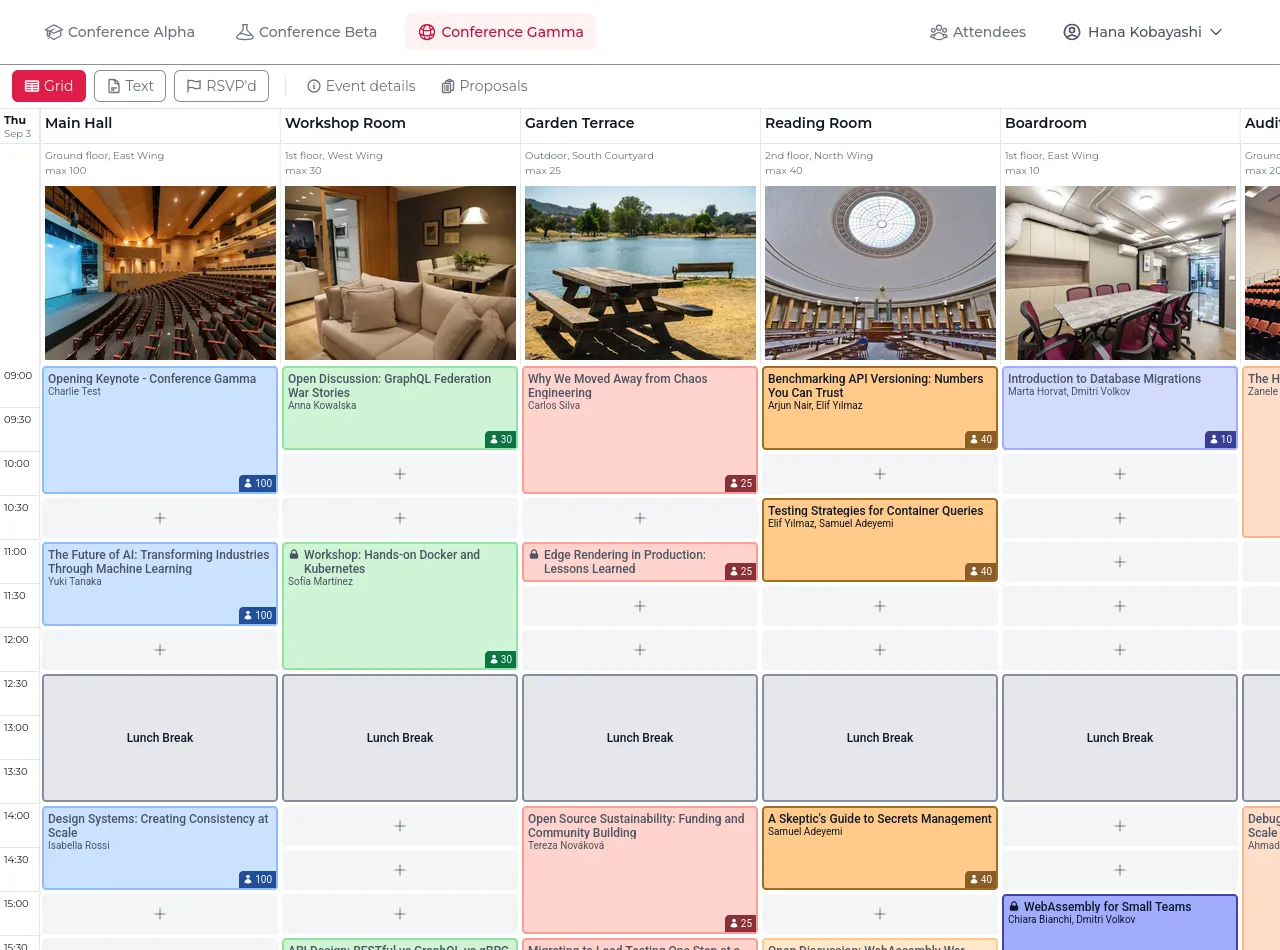
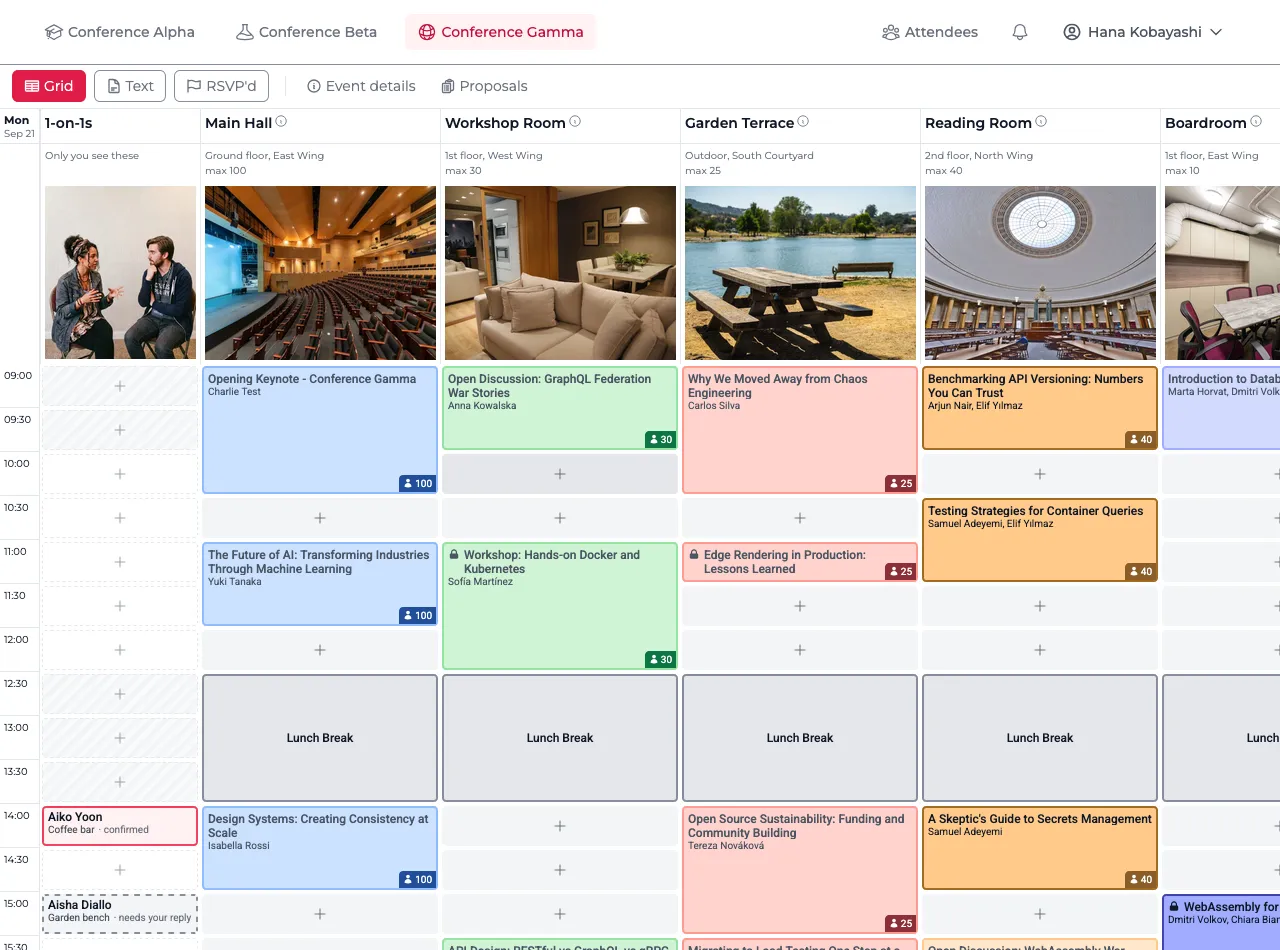
docs: screenshots of the 1-on-1s
Six shots — availability under Settings, asking from a profile, answering,
the grid's own column, booking from an empty slot in it, and the
organizer's settings — in the attendee and admin guides.

The site hero is retaken with the 1-on-1 column in it, so the feature is on
the landing page, the README and the docs index without a shot of its own;
the gallery's 1-on-1 step is the request form, which reads at a glance where
a column on the left does not.

The large seed profile now gives the screenshot guest her own availability
and a 1-on-1 in each state, so the shots can be retaken without arranging
anything by hand.

fixes #998

diff --git a/www/screenshots.html b/www/screenshots.html
@@ -320,19 +320,20 @@
 
         <figure
           data-full="screenshots/schedule-grid.webp"
-          data-caption="Build the schedule — Hosts place proposals on a time-and-room grid, with room photos, capacity, and location shown inline."
+          data-caption="Build the schedule — Hosts place proposals on a time-and-room grid, with room photos, capacity, and location shown inline. The first column is the viewer's own 1-on-1s."
         >
           <figcaption>
             <span class="step-title">6. Build the schedule</span>
             <span class="step-desc"
               >Hosts place proposals on a time-and-room grid, with room photos,
-              capacity, and location shown inline.</span
+              capacity, and location shown inline. The first column is the
+              viewer's own 1-on-1s.</span
             >
           </figcaption>
           <img
             src="screenshots/schedule-grid.webp"
             loading="lazy"
-            alt="Simple scheduling grid with rooms as columns, time slots as rows, and room photos shown for each column"
+            alt="Scheduling grid with rooms as columns, time slots as rows and room photos for each column, and a first column holding the viewer's own 1-on-1s"
           />
         </figure>
 
@@ -373,6 +374,24 @@
           />
         </figure>
 
+        <figure
+          data-full="screenshots/meeting-request.webp"
+          data-caption="Ask someone for a 1-on-1 — Pick an hour they marked free, say where to meet, and add a line of context. Clashes are a warning, never a wall."
+        >
+          <figcaption>
+            <span class="step-title">9. Ask someone for a 1-on-1</span>
+            <span class="step-desc"
+              >Pick an hour they marked free, say where to meet, and add a line
+              of context. Clashes are a warning, never a wall.</span
+            >
+          </figcaption>
+          <img
+            src="screenshots/meeting-request.webp"
+            loading="lazy"
+            alt="Request form for a 1-on-1, with an attendee's hours marked Available, Busy or Unavailable, a choice of meeting points, and a line of context"
+          />
+        </figure>
+
         <h3 class="section-heading">Attendees &amp; profiles</h3>
 
         <figure
@@ -380,7 +399,7 @@
           data-caption="Attendee directory — Search everyone at the event and see who's hosting a session at a glance."
         >
           <figcaption>
-            <span class="step-title">9. Attendee directory</span>
+            <span class="step-title">10. Attendee directory</span>
             <span class="step-desc"
               >Search everyone at the event and see who's hosting a session at a
               glance.</span
@@ -398,7 +417,7 @@
           data-caption="Participant profiles — Everyone gets a profile with their bio, proposals, and the sessions they're hosting."
         >
           <figcaption>
-            <span class="step-title">10. Participant profiles</span>
+            <span class="step-title">11. Participant profiles</span>
             <span class="step-desc"
               >Everyone gets a profile with their bio, proposals, and the
               sessions they're hosting.</span
@@ -416,7 +435,7 @@
           data-caption="Edit your profile — Set your name, pronouns, avatar, and a Markdown bio."
         >
           <figcaption>
-            <span class="step-title">11. Edit your profile</span>
+            <span class="step-title">12. Edit your profile</span>
             <span class="step-desc"
               >Set your name, pronouns, avatar, and a Markdown bio.</span
             >
@@ -436,7 +455,7 @@
           data-caption="Works great on mobile — The full schedule is usable on a phone, so attendees can check it on the go."
         >
           <figcaption>
-            <span class="step-title">12. Works great on mobile</span>
+            <span class="step-title">13. Works great on mobile</span>
             <span class="step-desc"
               >The full schedule is usable on a phone, so attendees can check it
               on the go.</span
@@ -455,7 +474,7 @@
           data-caption="Closed-session notices — Attendees are warned about late-arrival rules before they RSVP."
         >
           <figcaption>
-            <span class="step-title">13. Closed-session notices</span>
+            <span class="step-title">14. Closed-session notices</span>
             <span class="step-desc"
               >Attendees are warned about late-arrival rules before they RSVP
               (here the mobile view).</span
@@ -475,7 +494,7 @@
           data-caption="Admin: manage all your events — See every event's dates and jump straight into managing one."
         >
           <figcaption>
-            <span class="step-title">14. Admin: manage all your events</span>
+            <span class="step-title">15. Admin: manage all your events</span>
             <span class="step-desc"
               >See every event's dates and jump straight into managing
               one.</span
@@ -493,7 +512,7 @@
           data-caption="Admin: configure each event — Set the name, description, dates, timezone, and scheduling rules per event."
         >
           <figcaption>
-            <span class="step-title">15. Admin: configure each event</span>
+            <span class="step-title">16. Admin: configure each event</span>
             <span class="step-desc"
               >Set the name, description, dates, timezone, and scheduling rules
               per event.</span
@@ -512,7 +531,7 @@
         >
           <figcaption>
             <span class="step-title"
-              >16. Notifications &amp; account security</span
+              >17. Notifications &amp; account security</span
             >
             <span class="step-desc"
               >Choose which changes you get emailed about, and protect your name
@@ -532,7 +551,7 @@
           data-caption="Kiosk mode for the venue — An unattended schedule display auto-scrolls to the current time, marked with a red line, and stays fresh without anyone touching it."
         >
           <figcaption>
-            <span class="step-title">17. Kiosk mode for the venue</span>
+            <span class="step-title">18. Kiosk mode for the venue</span>
             <span class="step-desc"
               >An unattended schedule display auto-scrolls to the current time,
               marked with a red line, and stays fresh without anyone touching

diff --git a/scripts/seed/seed-database.ts b/scripts/seed/seed-database.ts
@@ -38,6 +38,10 @@ const TZ = "Europe/Berlin";
 // derives 1-on-1 slots from it, and so does the availability seeding below.
 const SLOT_INCREMENT_MINUTES = 30;
 
+// The attendee the documentation screenshots are taken as, so the large
+// profile gives her the 1-on-1s to photograph (docs/screenshots/README.md).
+const SCREENSHOT_GUEST = "Hana Kobayashi";
+
 // Returns a UTC Date representing the given clock time on a specific day in Berlin.
 // dayOffset is added to baseDate's Berlin calendar date before setting the time.
 function berlinTime(
@@ -477,6 +481,30 @@ async function seedTestData(profile: SeedProfile) {
         }))
       );
   });
+  // A wider day than the shared afternoon, with gaps in it: the screenshot
+  // guest's own availability is one of the shots. Large profile only, so the
+  // E2E suite keeps every seeded guest unbookable.
+  if (profile === "large") {
+    const screenshotGuest = guestRows.find((g) => g.name === SCREENSHOT_GUEST)!;
+    for (const day of dayRows) {
+      const start = new Date(day.start);
+      for (const slot of meetingSlotsForDay(
+        { start, end: new Date(day.end) },
+        SLOT_INCREMENT_MINUTES
+      )) {
+        const hoursIn =
+          (slot.start.getTime() - start.getTime()) / (60 * 60 * 1000);
+        const overLunch = hoursIn >= 3.5 && hoursIn < 5;
+        if (hoursIn < 1 || hoursIn >= 8.5 || overLunch) continue;
+        availabilityRows.push({
+          eventId: day.eventId,
+          guestId: screenshotGuest.id,
+          slotStart: slot.start.toISOString(),
+        });
+      }
+    }
+  }
+
   insertChunked(availabilityRows, (chunk) =>
     db.insert(schema.meetingAvailability).values(chunk)
   );
@@ -976,6 +1004,67 @@ async function seedTestData(profile: SeedProfile) {
   }
   insertChunked(rsvpRows, (chunk) => db.insert(schema.rsvps).values(chunk));
   console.log(`  ✅ Created ${rsvpRows.length} RSVPs`);
+
+  // One 1-on-1 of each state for the screenshot guest's column of Gamma's
+  // grid, in the afternoon the others here are bookable.
+  if (profile === "large") {
+    console.log("  🤝 Creating test 1-on-1s...");
+    const screenshotGuestId = guestIdByName(SCREENSHOT_GUEST);
+    const gammaDayOne = dayRows.find((d) => d.eventId === gammaEvent.id)!;
+    const slotAt = (hour: number, minute: number) => ({
+      slotStart: berlinTime(
+        new Date(gammaDayOne.start),
+        0,
+        hour,
+        minute
+      ).toISOString(),
+      slotEnd: berlinTime(
+        new Date(gammaDayOne.start),
+        0,
+        hour,
+        minute + SLOT_INCREMENT_MINUTES
+      ).toISOString(),
+    });
+    const meetingRows = [
+      {
+        other: "Aiko Yoon",
+        role: "requester" as const,
+        ...slotAt(14, 0),
+        meetingPoint: "Coffee bar",
+        message: "Would love to hear how you run your birdwatching walks.",
+        status: "accepted" as const,
+      },
+      {
+        other: "Aisha Diallo",
+        role: "recipient" as const,
+        ...slotAt(15, 0),
+        meetingPoint: "Garden bench",
+        message: "Could we compare notes on multilingual research?",
+        status: "pending" as const,
+      },
+      {
+        other: "Anders Pereira",
+        role: "requester" as const,
+        ...slotAt(16, 0),
+        meetingPoint: "Coffee bar",
+        message: "Happy to swap documentation war stories.",
+        status: "pending" as const,
+      },
+    ].map(({ other, role, status, ...rest }) => ({
+      id: nanoid(),
+      eventId: gammaEvent.id,
+      requesterId:
+        role === "requester" ? screenshotGuestId : guestIdByName(other),
+      recipientId:
+        role === "requester" ? guestIdByName(other) : screenshotGuestId,
+      status,
+      createdAt: new Date().toISOString(),
+      respondedAt: status === "accepted" ? new Date().toISOString() : null,
+      ...rest,
+    }));
+    db.insert(schema.meetings).values(meetingRows).run();
+    console.log(`  ✅ Created ${meetingRows.length} 1-on-1s`);
+  }
 
   console.log("✅ Test data seeded successfully");
 }

diff --git a/www/index.html b/www/index.html
@@ -341,6 +341,10 @@
             grid
           </li>
           <li>
+            <strong>1-on-1s</strong> Attendees mark when they are free and book
+            short meetings with each other
+          </li>
+          <li>
             <strong>Event phases</strong> Proposal → voting → scheduling with
             configurable dates
           </li>

diff --git a/docs/screenshots/README.md b/docs/screenshots/README.md
@@ -47,7 +47,10 @@ General setup:
 - Mobile shots: "Galaxy Note 9 / Android 7" device
 - Hide the Next.js developer tools overlay before capturing
 - Select the attendee **Hana Kobayashi** before capturing, so the "logged in
-  as" state is consistent across all screenshots
+  as" state is consistent across all screenshots. The large profile gives her
+  the 1-on-1 states the shots below need — availability with gaps in it, one
+  agreed meeting, one waiting on her and one waiting on the other person — so
+  nothing has to be arranged by hand
 - Light theme for everything except the one dark shot flagged in the checklist
   below. The theme switch is in the footer on every page; switch it back
   afterwards.
@@ -98,9 +101,14 @@ changes materially. Check off `[ ]` as you go.
 - [ ] `quick-voting.webp` — Quick Voting mode, one proposal at a time
 - [ ] `proposals-results.webp` — Proposal list in the **scheduling** phase: "Your vote" column and ❤/⭐ vote counts (only visible once voting is over)
 - [ ] `proposal-vote-breakdown.webp` — A proposal's popup in the **scheduling** phase, showing the vote breakdown and the "expect N–M people" prediction. Open it as the host (Hana Kobayashi) of a proposal with enough votes, or the box is withheld
-- [ ] `schedule-grid.webp` — Simple scheduling grid with room photos (also used as the site hero; also regenerates `www/og-image.jpg`, see above)
+- [ ] `schedule-grid.webp` — Scheduling grid with room photos, taken at the top of day one so the viewer's own 1-on-1 column is in it (also used as the site hero and as the landing page's only 1-on-1 shot; also regenerates `www/og-image.jpg`, see above)
 - [ ] `session-details.webp` — Session detail popup (host, location, time, attendees, description)
 - [ ] `add-session.webp` — Form for adding a session directly to the schedule
+- [ ] `meetings-availability.webp` — The **1-on-1s** section of Settings with an event's panel open: the "I'm open to 1-on-1s" switch on, and a day's slots as checkboxes with some of them cleared
+- [ ] `meeting-request.webp` — The request form behind **Schedule a 1-on-1** on another attendee's profile, with a slot picked, a meeting point chosen and a line of context typed. Ahmad Karimi's profile has all three slot states (Available, Busy, Unavailable) on the event's first day
+- [ ] `meeting-answer.webp` — The 1-on-1 waiting for Hana's reply (Aisha Diallo's, 15:00 on day one), opened from her column of the grid: Accept, Decline, and the clash warning
+- [ ] `meetings-schedule-column.webp` — The scheduling grid's first column, picture and all, with Hana's own 1-on-1s in it. Scroll the grid so day one's whole afternoon is in view
+- [ ] `meeting-book-from-grid.webp` — "Who's free at …?", from the **+** on an empty slot of that column. Take it on 14:30, where the seeded attendees are bookable — most hours nobody is free, and the popup then has nothing to show
 - [ ] `attendees.webp` — Searchable attendee directory with avatars and host badges
 - [ ] `participant-profile.webp` — Participant profile page (bio, proposals, sessions they're hosting)
 - [ ] `edit-profile.webp` — Edit profile form (name, pronouns, avatar, Markdown bio)
@@ -108,6 +116,7 @@ changes materially. Check off `[ ]` as you go.
 - [ ] `kiosk-mode.webp` — Schedule grid in kiosk mode, with the red current-time line visible
 - [ ] `admin-events.webp` — Admin panel listing all events with a Manage button
 - [ ] `admin-event-settings.webp` — Admin event configuration form (name, dates, timezone, rules)
+- [ ] `admin-meetings.webp` — The **Meetings** section of the same form: 1-on-1s enabled, the suggested meeting points, and the cap on open requests
 
 ### Mobile (Galaxy Note 9)
 

diff --git a/docs/public/attendee-guide.md b/docs/public/attendee-guide.md
@@ -107,7 +107,7 @@ to see why:
 Once **scheduling** opens, proposals turn into real sessions on the grid.
 Proposing and voting close.
 
-![Simple scheduling grid with rooms as columns and time slots as rows](../screenshots/schedule-grid.webp)
+![Scheduling grid with rooms as columns and time slots as rows, and a first column holding the viewer's own 1-on-1s](../screenshots/schedule-grid.webp)
 
 A room name with an **ⓘ** next to it has more to say — tap it (or hover it)
 to read what the room offers: projector, whiteboard, the kind of seating.
@@ -248,6 +248,8 @@ Slots are as long as the event's schedule increment and cover the whole of each
 day. If the organizer later changes that increment, everyone's availability is
 cleared and you are asked to choose again — the slots themselves have moved.
 
+![The 1-on-1s section of Settings, with an event's panel open: the "I'm open to 1-on-1s" switch on, and a day's slots as checkboxes with some cleared](../screenshots/meetings-availability.webp)
+
 ### Ask someone for a 1-on-1
 
 Anyone who is open to 1-on-1s has a **Schedule a 1-on-1** button on their
@@ -270,6 +272,8 @@ the whole message — this is a request, not a chat.
 The organizer sets how many requests you may have waiting for an answer at once.
 Once you are at that number, wait for a reply or cancel one first.
 
+![Request form for a 1-on-1, with the day's slots marked Available, Busy or Unavailable, a choice of meeting points, and a line of context](../screenshots/meeting-request.webp)
+
 ### Answering a request
 
 You'll get a notification (and an email, unless you've turned that off) with
@@ -285,6 +289,8 @@ have on.
 You can't change the time or the place — accept it or decline it, and let them
 ask again if it doesn't suit. Either way they are told. A request nobody answers
 before its slot begins simply lapses; nothing is held against you.
+
+![A 1-on-1 request popup with when, where, the sender's line of context, a warning about a clash, and Accept and Decline buttons](../screenshots/meeting-answer.webp)
 
 ### Your 1-on-1s on the schedule
 
@@ -311,6 +317,8 @@ rather than in the email, the same as the line of context on a request. A
 canceled 1-on-1 leaves the schedule, so their notification is how they get back
 to it.
 
+![Schedule grid with a first column of the viewer's own 1-on-1s — one confirmed, one waiting for their reply, one waiting for the other person's — beside the room columns](../screenshots/meetings-schedule-column.webp)
+
 ### Arrange one from the schedule
 
 Tapping an **empty slot** in that column asks the question a profile cannot:
@@ -322,6 +330,8 @@ and the usual request form follows: where to meet, and a line of context.
 
 The slots you did not offer to others are bookable this way too. What you
 declare says who may book _you_; whom you ask, and when, is yours to decide.
+
+![Popup asking "Who's free at 14:30?", listing the attendees who marked that slot open with an Ask button each, some of them noted as already booked](../screenshots/meeting-book-from-grid.webp)
 
 ## Attendee directory & profiles
 

diff --git a/docs/public/organizers/admin-guide.md b/docs/public/organizers/admin-guide.md
@@ -66,6 +66,8 @@ One global row shown when there's more than one event (see
 
 ![Admin event configuration form with name, dates, timezone, and scheduling settings](../../screenshots/admin-event-settings.webp)
 
+![The Meetings section of an event's configuration, with 1-on-1s enabled, two suggested meeting points, and the cap on open requests](../../screenshots/admin-meetings.webp)
+
 ## Locations
 
 Locations are a **global pool**, not per-event — one location can be

diff --git a/docs/public/index.md b/docs/public/index.md
@@ -10,7 +10,7 @@ SchellingBoard is a web app for running an unconference-style event: attendees
 propose sessions, vote on the ones they want, and place them on a shared
 schedule.
 
-![Simple scheduling grid with rooms as columns and time slots as rows](../screenshots/schedule-grid.webp)
+![Scheduling grid with rooms as columns and time slots as rows, and a first column holding the viewer's own 1-on-1s](../screenshots/schedule-grid.webp)
 
 ## For attendees
 
